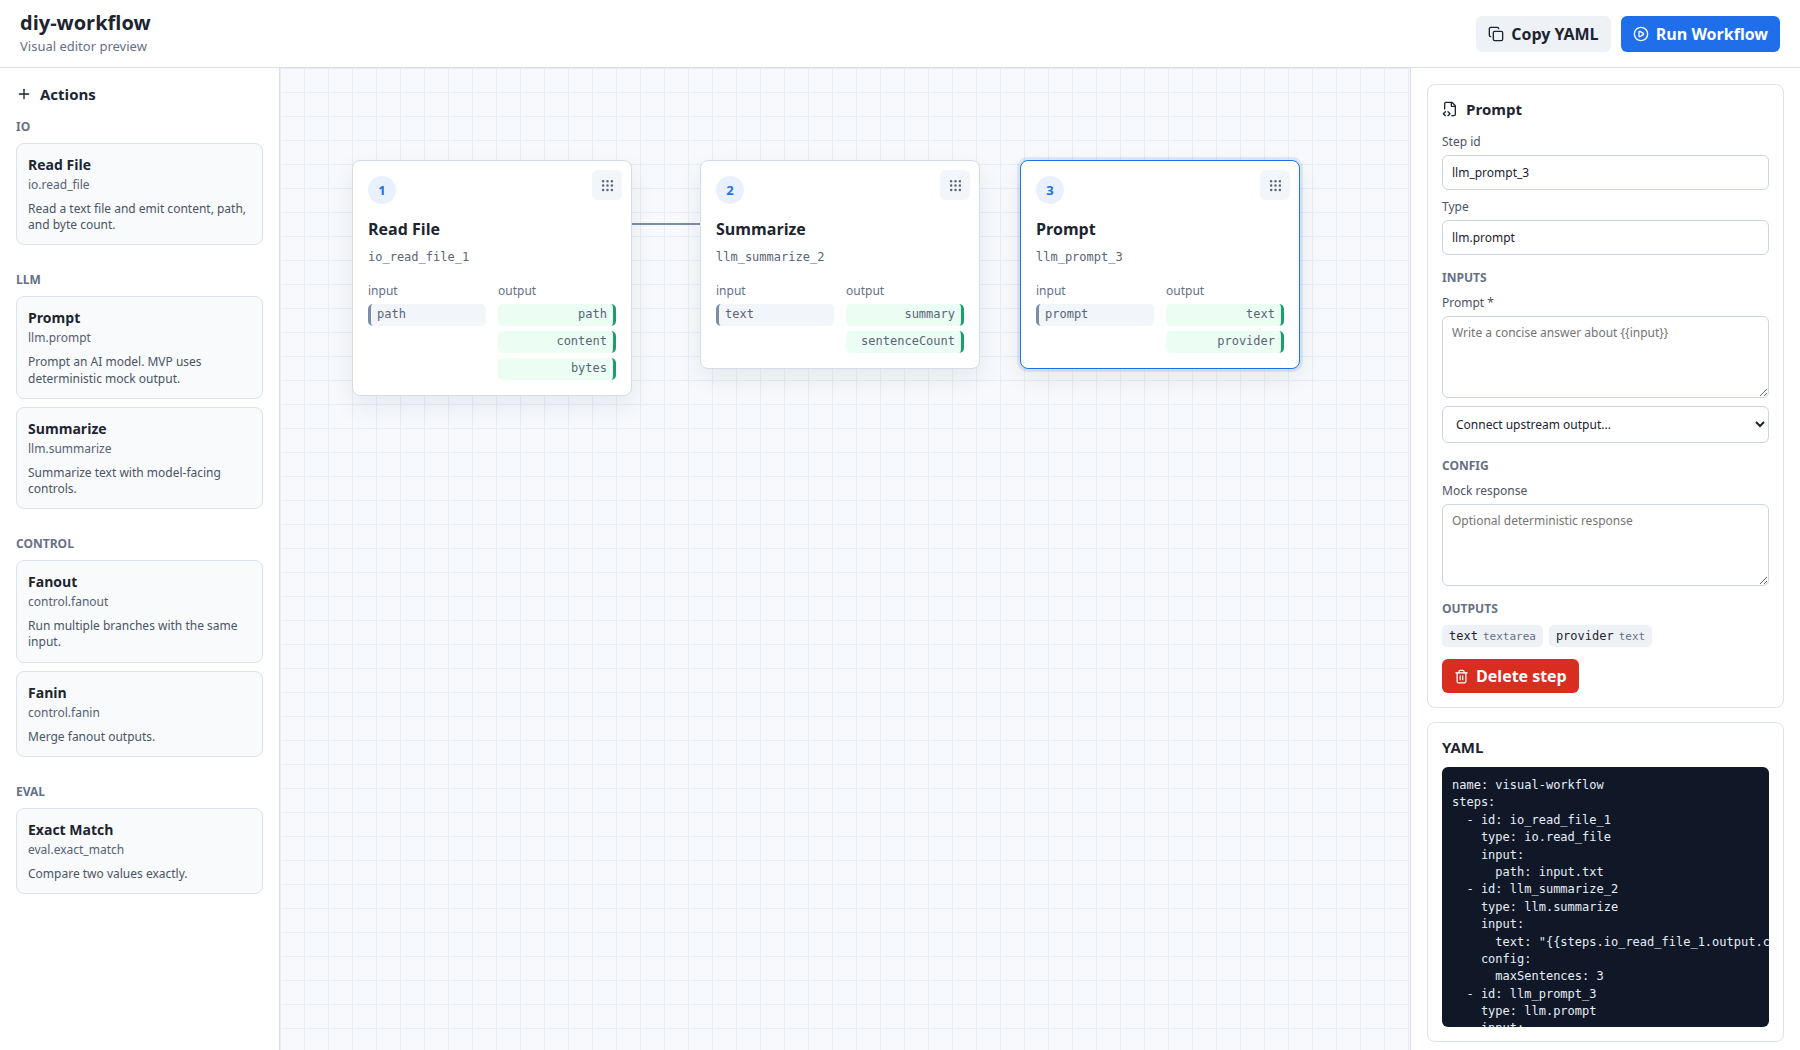
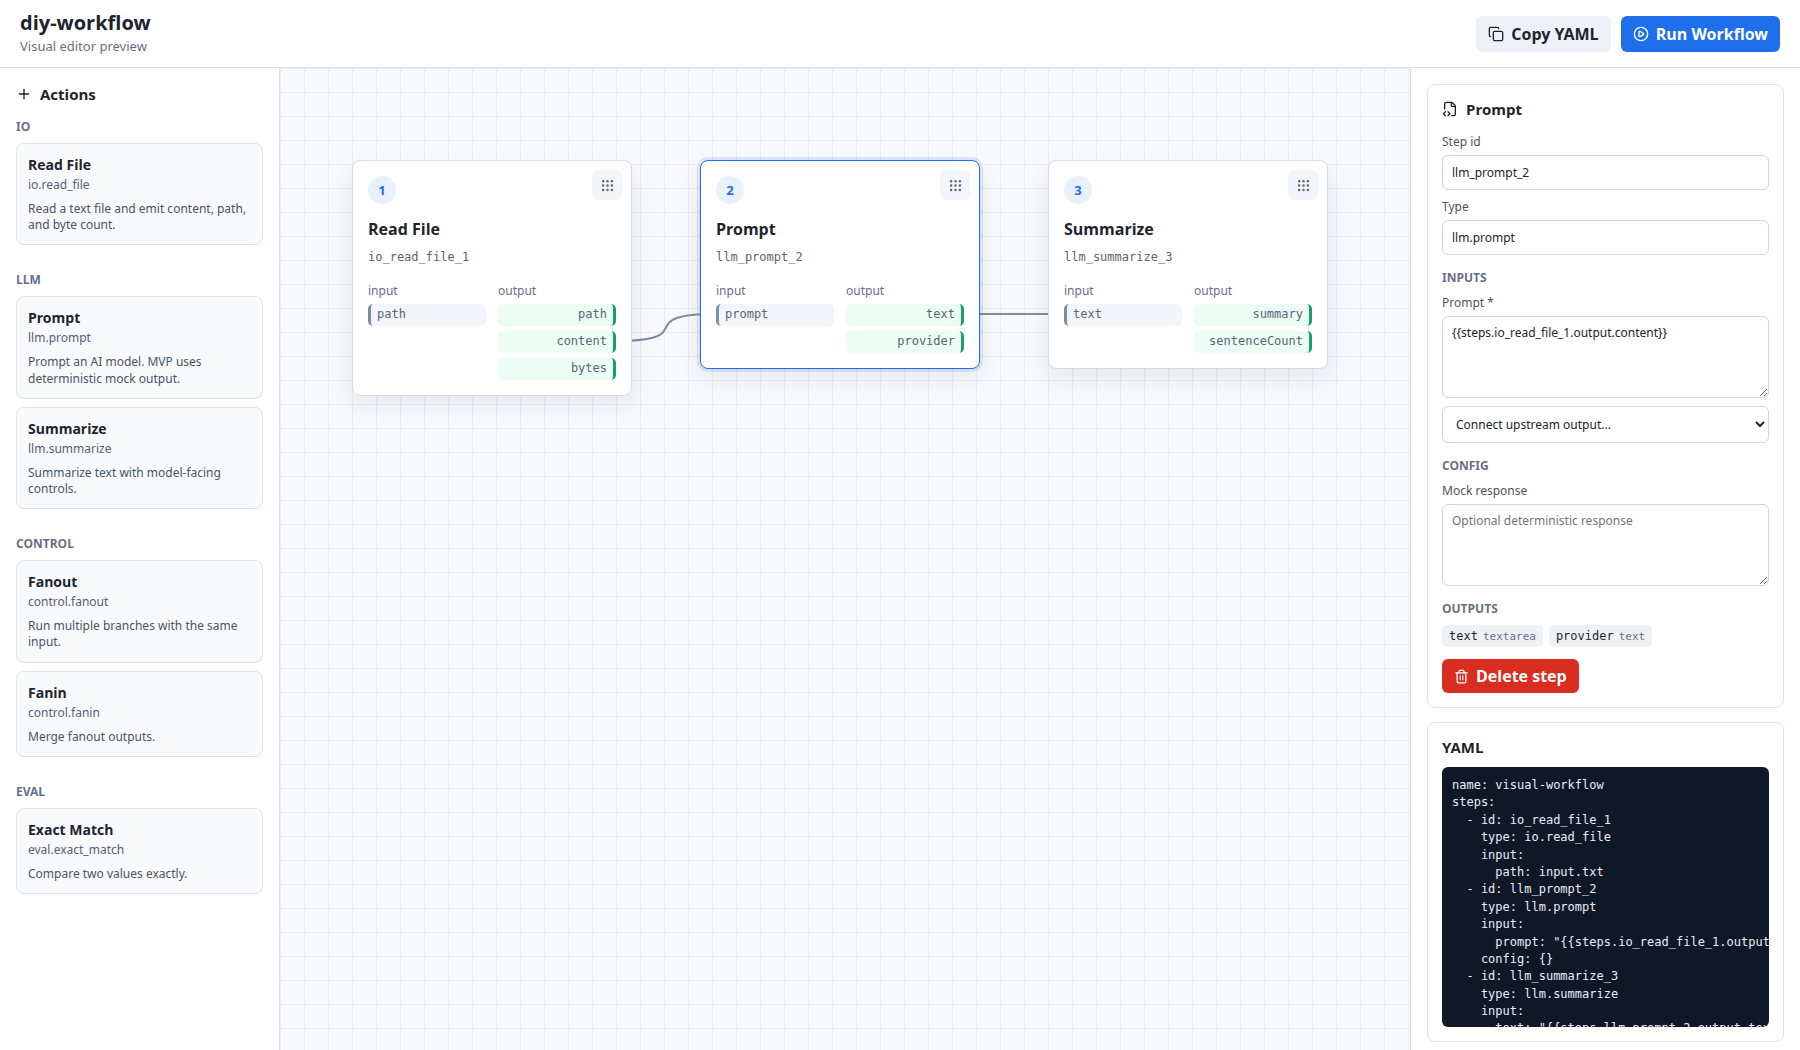
fix: render field-level editor connections

diff --git a/src/ui/editorModel.test.ts b/src/ui/editorModel.test.ts
@@ -1,6 +1,6 @@
 import test from "node:test";
 import assert from "node:assert/strict";
-import { addStep, availableConnections, connectCompatibleField, connectField, createInitialEditorState, isCompatibleConnection, moveStep, removeStep, updateStepInput } from "./editorModel.js";
+import { addStep, availableConnections, connectCompatibleField, connectField, createInitialEditorState, getWorkflowConnections, isCompatibleConnection, moveStep, removeStep, updateStepInput } from "./editorModel.js";
 
 test("editor model adds, moves, and removes nodes", () => {
   let state = createInitialEditorState();
@@ -18,7 +18,8 @@ test("editor model adds, moves, and removes nodes", () => {
 
 test("editor model builds schema-style upstream references", () => {
   let state = createInitialEditorState();
-  const [read, summarize] = state.workflow.steps;
+  const read = state.workflow.steps.find((step) => step.type === "io.read_file")!;
+  const summarize = state.workflow.steps.find((step) => step.type === "llm.summarize")!;
   assert.ok(read);
   assert.ok(summarize);
   const connections = availableConnections(state, summarize.id);
@@ -36,7 +37,7 @@ test("editor model filters upstream connections by compatible field kind", () =>
   const jsonConnections = availableConnections(state, exactMatch.id, actualField);
   assert.ok(jsonConnections.some((connection) => connection.field.name === "bytes"));
 
-  const summarize = state.workflow.steps[1]!;
+  const summarize = state.workflow.steps.find((step) => step.type === "llm.summarize")!;
   const textField = { name: "text", label: "Text", kind: "textarea" as const, connectable: true };
   const textConnections = availableConnections(state, summarize.id, textField);
   assert.ok(textConnections.some((connection) => connection.field.name === "content"));
@@ -53,17 +54,30 @@ test("editor model exposes compatibility rules for UI wiring", () => {
 
 test("editor model only connects compatible visual ports", () => {
   let state = createInitialEditorState();
-  const [read, summarize] = state.workflow.steps;
+  const read = state.workflow.steps.find((step) => step.type === "io.read_file")!;
+  const summarize = state.workflow.steps.find((step) => step.type === "llm.summarize")!;
   assert.ok(read);
   assert.ok(summarize);
 
   const invalid = connectCompatibleField(state, summarize.id, "text", read.id, "bytes");
   assert.equal(invalid.ok, false);
-  assert.equal(summarizeInput(invalid.state), `{{steps.${read.id}.output.content}}`);
+  assert.equal(summarizeInput(invalid.state), summarizeInput(state));
 
   const valid = connectCompatibleField(state, summarize.id, "text", read.id, "content");
   assert.equal(valid.ok, true);
   assert.equal(summarizeInput(valid.state), `{{steps.${read.id}.output.content}}`);
+});
+
+test("editor model extracts port-level workflow connections", () => {
+  const state = createInitialEditorState();
+  const read = state.workflow.steps.find((step) => step.type === "io.read_file")!;
+  const prompt = state.workflow.steps.find((step) => step.type === "llm.prompt")!;
+  const summarize = state.workflow.steps.find((step) => step.type === "llm.summarize")!;
+
+  assert.deepEqual(getWorkflowConnections(state), [
+    { fromStepId: read.id, fromField: "content", toStepId: prompt.id, toField: "prompt" },
+    { fromStepId: prompt.id, fromField: "text", toStepId: summarize.id, toField: "text" },
+  ]);
 });
 
 test("editor model updates primitive field input", () => {
@@ -74,5 +88,6 @@ test("editor model updates primitive field input", () => {
 });
 
 function summarizeInput(state: ReturnType<typeof createInitialEditorState>): unknown {
-  return (state.workflow.steps[1]!.input as Record<string, unknown>).text;
+  const summarize = state.workflow.steps.find((step) => step.type === "llm.summarize")!;
+  return (summarize.input as Record<string, unknown>).text;
 }

diff --git a/src/ui/editorModel.ts b/src/ui/editorModel.ts
@@ -19,6 +19,13 @@ export interface ConnectionCandidate {
   compatible: boolean;
 }
 
+export interface WorkflowConnection {
+  fromStepId: string;
+  fromField: string;
+  toStepId: string;
+  toField: string;
+}
+
 export interface ConnectionResult {
   state: EditorState;
   ok: boolean;
@@ -27,14 +34,17 @@ export interface ConnectionResult {
 
 export function createInitialEditorState(): EditorState {
   const read = createStep("io.read_file", 0);
-  const summarize = createStep("llm.summarize", 1);
-  summarize.input = { text: referenceFor(read.id, "content") };
+  const prompt = createStep("llm.prompt", 1);
+  const summarize = createStep("llm.summarize", 2);
+  prompt.input = { prompt: referenceFor(read.id, "content") };
+  summarize.input = { text: referenceFor(prompt.id, "text") };
   return {
-    workflow: { name: "visual-workflow", steps: [read, summarize] },
-    selectedStepId: summarize.id,
+    workflow: { name: "visual-workflow", steps: [read, prompt, summarize] },
+    selectedStepId: prompt.id,
     positions: {
       [read.id]: { x: 72, y: 92 },
-      [summarize.id]: { x: 420, y: 92 },
+      [prompt.id]: { x: 420, y: 92 },
+      [summarize.id]: { x: 768, y: 92 },
     },
   };
 }
@@ -145,6 +155,20 @@ export function referenceFor(stepId: string, field: string): string {
   return `{{steps.${stepId}.output.${field}}}`;
 }
 
+export function getWorkflowConnections(state: EditorState): WorkflowConnection[] {
+  return state.workflow.steps.flatMap((step) => {
+    const input = asObject(step.input);
+    return Object.entries(input).flatMap(([targetField, value]) =>
+      extractFieldReferences(value).map((reference) => ({
+        fromStepId: reference.stepId,
+        fromField: reference.field,
+        toStepId: step.id,
+        toField: targetField,
+      })),
+    );
+  });
+}
+
 export function buildMockTrace(workflow: WorkflowDocument): StepTrace[] {
   return workflow.steps.map((step, index) => ({
     id: step.id,
@@ -184,4 +208,10 @@ function asObject(value: unknown): JsonObject {
 function pruneEmpty(value: JsonObject): JsonObject | undefined {
   const entries = Object.entries(value).filter(([, item]) => item !== "" && item !== undefined);
   return entries.length ? Object.fromEntries(entries) : undefined;
+}
+
+function extractFieldReferences(value: unknown): Array<{ stepId: string; field: string }> {
+  if (typeof value !== "string") return [];
+  return [...value.matchAll(/{{\s*steps\.([A-Za-z0-9_-]+)\.output\.([A-Za-z0-9_.-]+)\s*}}/g)]
+    .map((match) => ({ stepId: match[1]!, field: match[2]! }));
 }

diff --git a/src/ui/main.tsx b/src/ui/main.tsx
@@ -10,6 +10,7 @@ import {
   connectCompatibleField,
   connectField,
   createInitialEditorState,
+  getWorkflowConnections,
   isCompatibleConnection,
   moveStep,
   removeStep,
@@ -224,23 +225,34 @@ function isLinkCompatible(source: OutputDescriptor, target: FieldDescriptor): bo
 }
 
 function Connections({ state }: { state: EditorState }) {
-  const lines = state.workflow.steps.flatMap((step) => {
-    const text = JSON.stringify(step.input);
-    return state.workflow.steps.flatMap((source) => text.includes(`steps.${source.id}.output`) ? [{ from: source.id, to: step.id }] : []);
-  });
+  const lines = getWorkflowConnections(state);
   return (
     <svg className="connections">
       {lines.map((line, index) => {
-        const from = state.positions[line.from] ?? { x: 0, y: 0 };
-        const to = state.positions[line.to] ?? { x: 0, y: 0 };
-        const x1 = from.x + 270;
-        const y1 = from.y + 64;
-        const x2 = to.x;
-        const y2 = to.y + 64;
-        return <path key={`${line.from}-${line.to}-${index}`} d={`M ${x1} ${y1} C ${x1 + 80} ${y1}, ${x2 - 80} ${y2}, ${x2} ${y2}`} />;
+        const from = portPosition(state, line.fromStepId, line.fromField, "output");
+        const to = portPosition(state, line.toStepId, line.toField, "input");
+        return (
+          <g key={`${line.fromStepId}.${line.fromField}-${line.toStepId}.${line.toField}-${index}`}>
+            <path d={`M ${from.x} ${from.y} C ${from.x + 86} ${from.y}, ${to.x - 86} ${to.y}, ${to.x} ${to.y}`} />
+            <circle cx={from.x} cy={from.y} r="3" />
+            <circle cx={to.x} cy={to.y} r="3" />
+          </g>
+        );
       })}
     </svg>
   );
+}
+
+function portPosition(state: EditorState, stepId: string, fieldName: string, side: "input" | "output"): { x: number; y: number } {
+  const step = state.workflow.steps.find((item) => item.id === stepId);
+  const action = step ? getEditorAction(step.type) : undefined;
+  const pos = state.positions[stepId] ?? { x: 0, y: 0 };
+  const fields = side === "input" ? action?.inputFields ?? [] : action?.outputFields ?? [];
+  const fieldIndex = Math.max(fields.findIndex((field) => field.name === fieldName), 0);
+  return {
+    x: side === "input" ? pos.x + 16 : pos.x + 264,
+    y: pos.y + 154 + fieldIndex * 27,
+  };
 }
 
 function Inspector({ state, step, setState }: { state: EditorState; step: WorkflowStep; setState: React.Dispatch<React.SetStateAction<EditorState>> }) {

diff --git a/src/ui/styles.css b/src/ui/styles.css
@@ -27,6 +27,7 @@ button:disabled { cursor: not-allowed; opacity: 0.65; }
 .canvas-grid { position: absolute; inset: 0; min-width: 1500px; min-height: 950px; background-image: linear-gradient(#e8edf4 1px, transparent 1px), linear-gradient(90deg, #e8edf4 1px, transparent 1px); background-size: 24px 24px; }
 .connections { position: absolute; inset: 0; width: 1500px; height: 950px; pointer-events: none; }
 .connections path { fill: none; stroke: #7c8da6; stroke-width: 2; }
+.connections circle { fill: #17a06b; stroke: #ffffff; stroke-width: 1.5; }
 .node { position: absolute; width: 280px; min-height: 164px; background: #fff; border: 1px solid #d5dce7; border-radius: 8px; box-shadow: 0 10px 25px rgba(28, 39, 59, 0.08); padding: 15px; user-select: none; }
 .node.selected { border-color: #1f6feb; box-shadow: 0 0 0 3px rgba(31, 111, 235, 0.12), 0 10px 25px rgba(28, 39, 59, 0.08); }
 .drag-handle { position: absolute; top: 9px; right: 9px; width: 30px; height: 30px; display: grid; place-items: center; color: #596579; background: #f2f5f9; border-radius: 6px; cursor: grab; }
